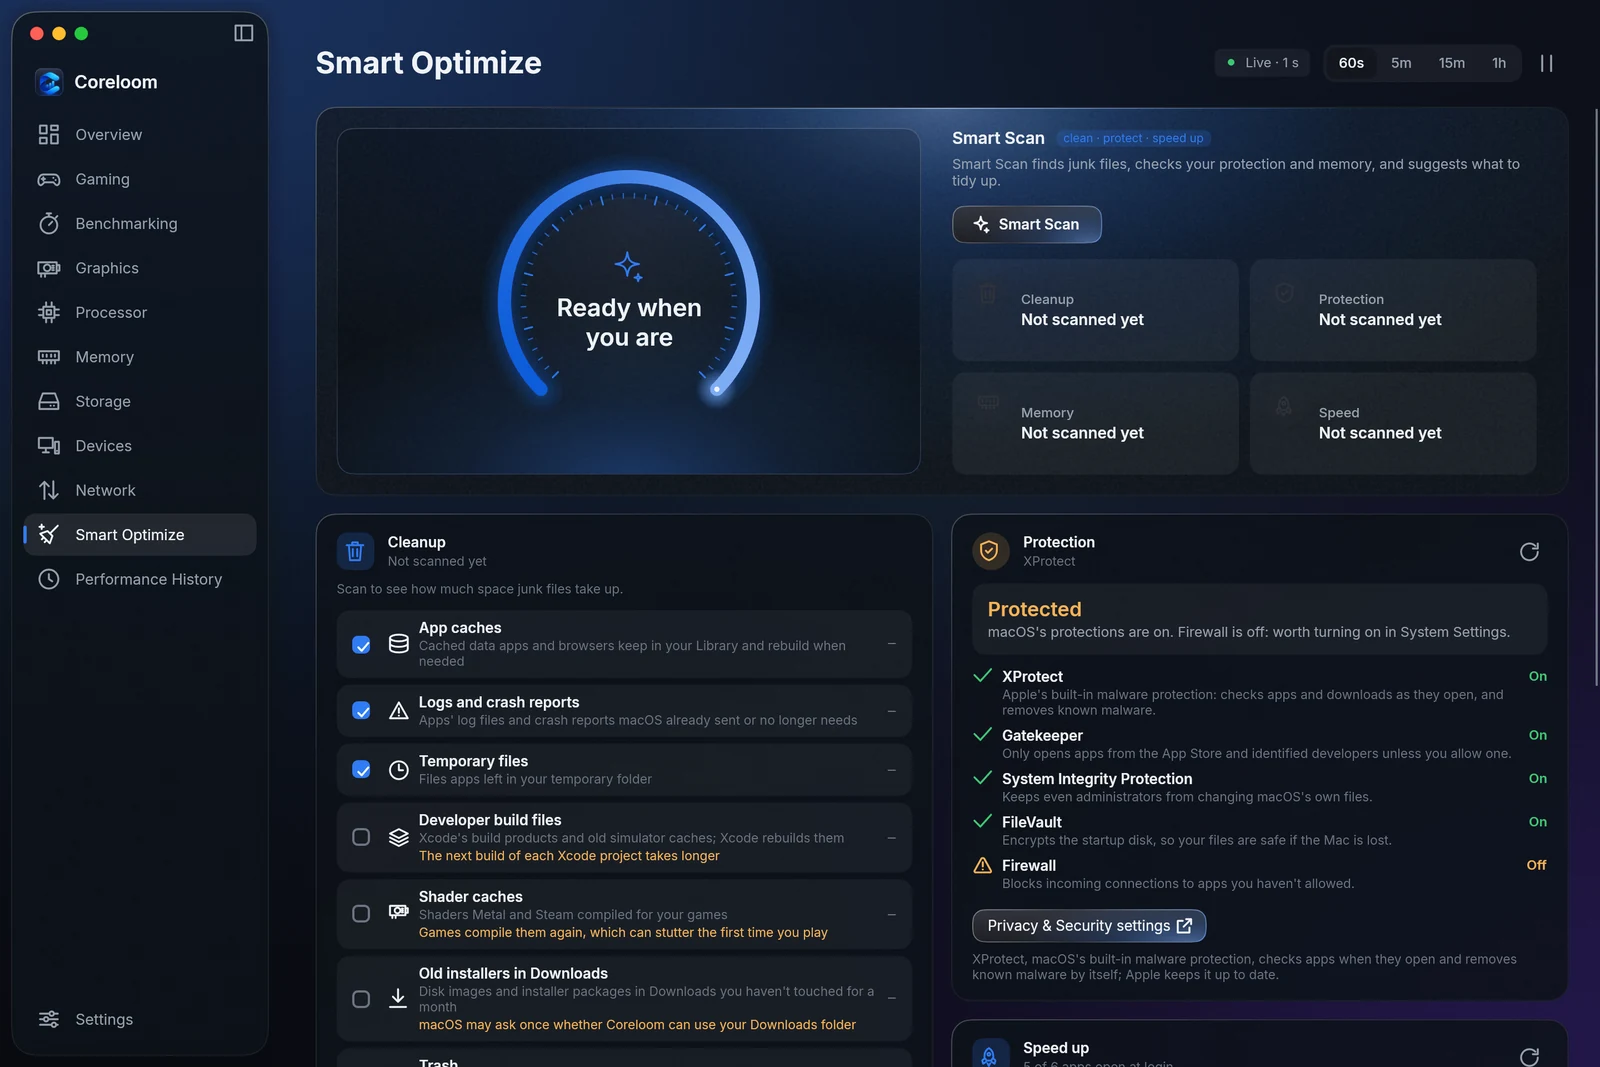
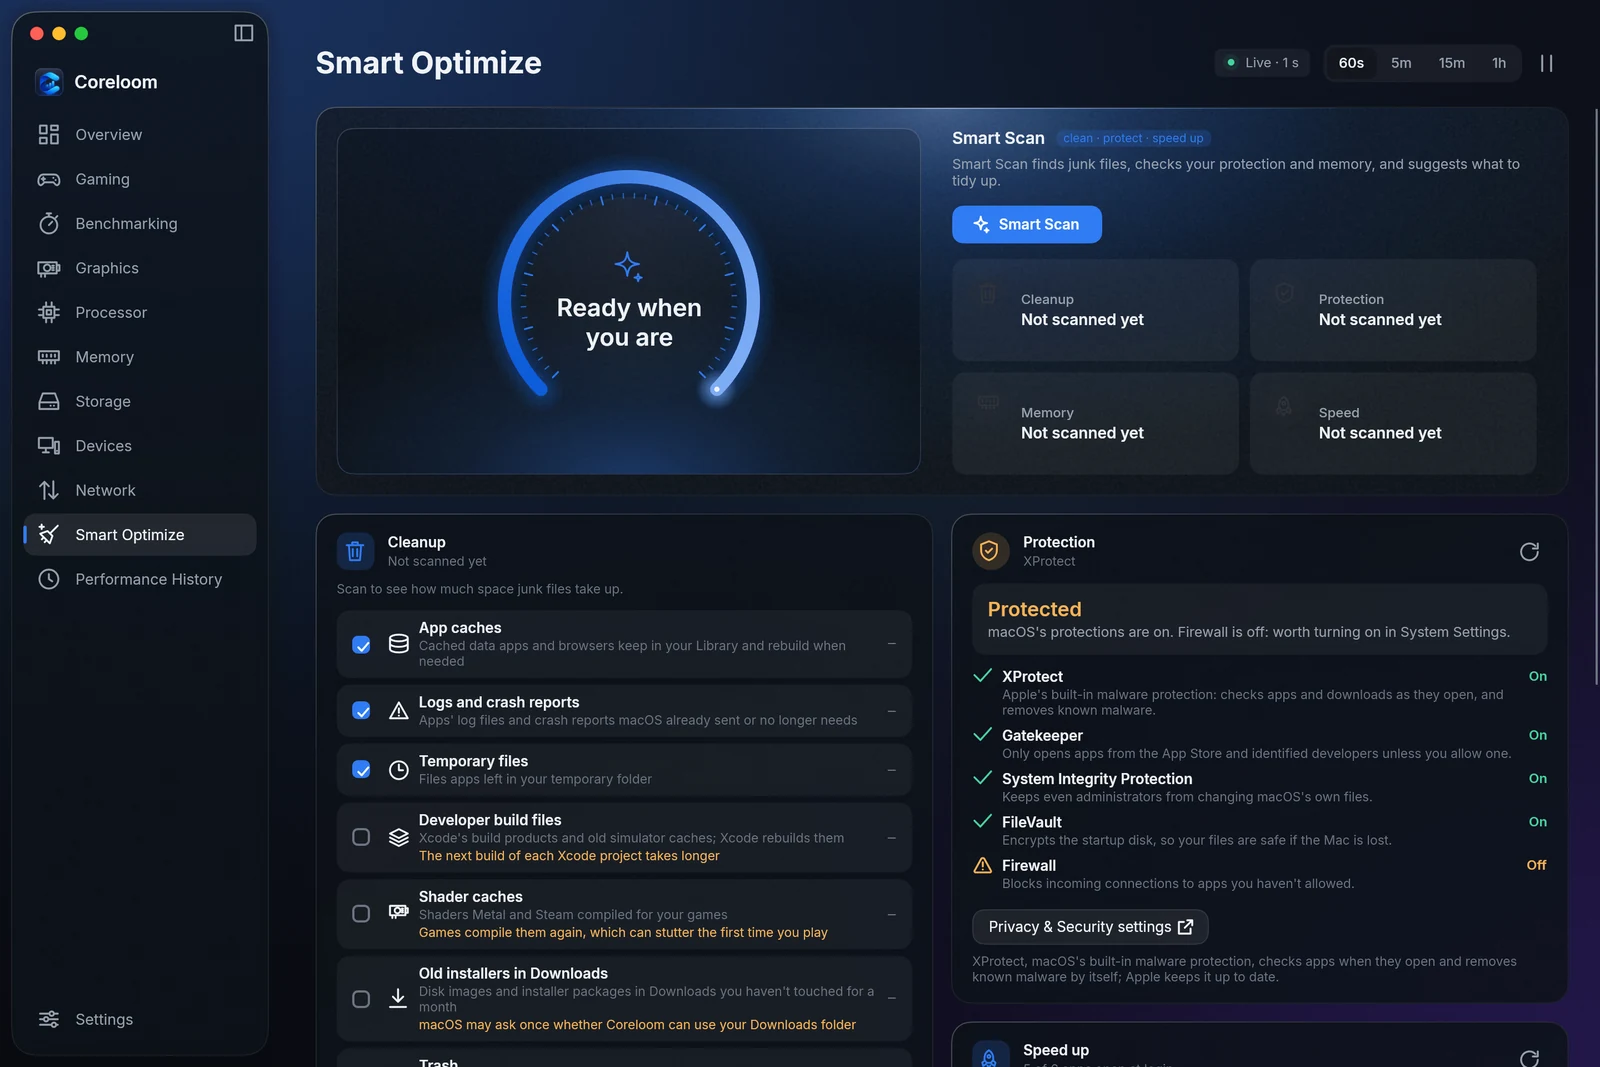
1.9.2 (work in progress): the Mac's and the phone's pictures for the website, the link preview, the verification notes so far
Claude-Session: https://claude.ai/code/session_01KSkAPnRycRxeooZjZu2bHo

Changed region(s): [[0.5938, 0.8351, 0.9375, 1.0], [0.5938, 0.1856, 0.6875, 0.2474], [0.9375, 0.9897, 0.9688, 1.0]]

diff --git a/docs/VERIFICATION.md b/docs/VERIFICATION.md
@@ -1060,6 +1060,22 @@ Intel failures seen in 1.8.6, whose reason couldn't be read then.
 
 - The 1.9.0 items still open: the look and the motion on real screens, the splash on 4K, the accent move on real saved settings. The core scheduling details' colours were checked with the fake service, not on a real Ryzen X3D.
 
+## 1.9.2: the sidebar's look; tick dials for memory and drives; 1.9.0's button colours; accent switches, the earlier green and splash
+
+### Verified
+
+| What | How | Result |
+|---|---|---|
+| Tests | Core (`Release192Tests`: the sidebar's defaults are the sidebar before 1.9.2, a 1.9.1 file gets them, odd values are clamped, the surface is saved by name, shadow and blur scale from the middle, liquid glass is clearer, the renderer draws the sidebar's own frost only when its blur differs) and view models (`Release192ViewModelTests`: the four surfaces and their labels, every change saved under Appearance and clamped, *Reset shadow and blur*, no blur for solid and translucent, the memory and drive dials' fractions and stops) and every earlier test | ✅ in the container (Core 775, view models 229) |
+| The look on Windows | Page shots run 41942088015 (`shots-192`): the four sidebar surfaces over the Bloom picture at full strength (frosted, liquid glass with its bright rim and highlight, solid, translucent showing the picture sharp), the shadow and blur at 100 %, liquid glass in the light theme, Settings › Appearance › Sidebar with its two sliders lined up with the Background ones; the memory and drive rings as tick dials; *Install update* and *New update available* in the accent, *Skip this version* only a rim, *Full release notes* the light glass; the version number in *What's new* a light blue; switches in the accent; the ribbons splash; the clip check 0 cut off | ✅ |
+| The look on the Mac | MacShots of every page and dialog with 0 binding errors, the four surfaces over Aurora, Dunes and Bloom in both themes (pixels sampled: frosted, liquid, solid and translucent all differ), Settings › Appearance › Sidebar; Mac verify run 41942091615 (`macverify-192`) on Apple silicon and Intel, the real app's Memory page with the tick dial | ✅ |
+| The phone app | Playwright at iPhone size against the demo: the memory ring is the tick dial, its number a size down to clear the ticks; the earlier green; `connect.js` in Node: 16 of 16; the mockups checked for an orange edge: none | ✅ |
+
+### Not verified yet
+
+- The sidebar's four surfaces, its shadow and its blur on real screens (Windows at 100–200 % scaling, a Retina Mac), over a bright picture of your own, and how much a second frost costs on a slow GPU.
+- The 1.9.0 and 1.9.1 items still open (the look and the motion on real screens, the splash on 4K, the accent move on real saved settings, the core scheduling colours on a real Ryzen X3D).
+
 ## How to re-run the checks that can run anywhere
 
 ```bash
